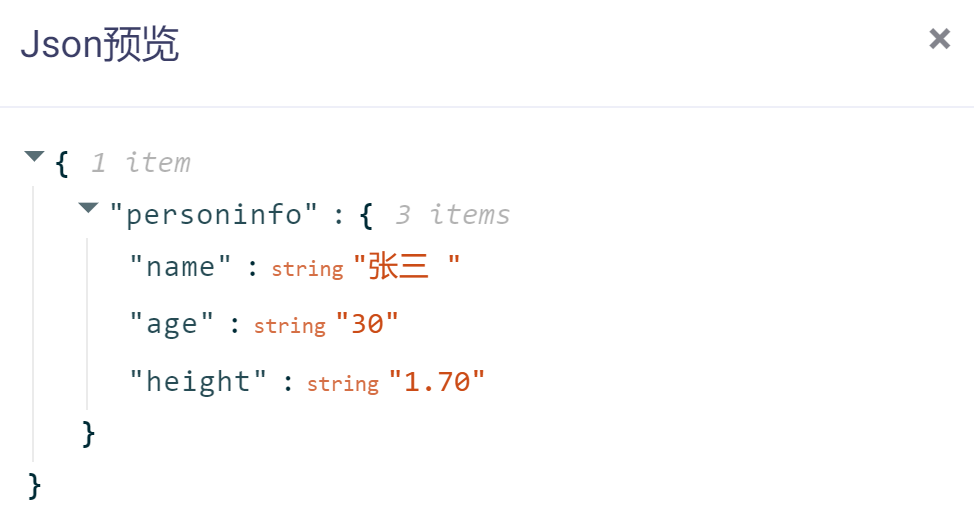
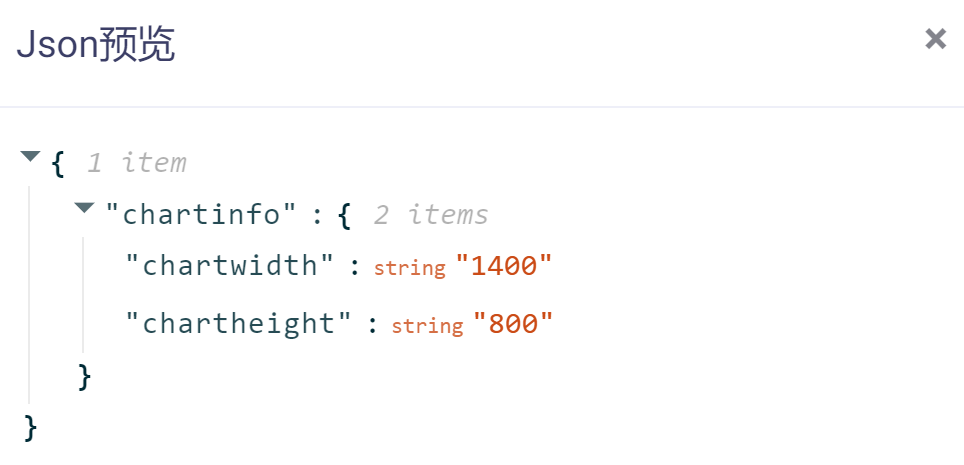
5-17-2023 update

diff --git a/docs/zh-cn/userguide/os/tools/code/devUI.md b/docs/zh-cn/userguide/os/tools/code/devUI.md
@@ -1,11 +1,11 @@
-# 用户界面接口
+# 建立用户界面接口
 
-用户界面接口是指用来实现用户输入与应用引导程序交互的机制。
-
-Code 提供以下两种用户界面接口类型：
+用户界面接口是 Code 用来实现用户输入与应用引导程序交互的机制。主要包括两种类型：
 
 * **模型视图接口**：用户使用一个或多个模型视图窗体与程序交互。
-* **文件接口**：用户通过文件上传与程序交互。
+* **文件端口**：用户通过文件上传与程序交互。
+
+在本例中，我们将同时使用以上两种接口类型。
 
 ## 模型视图接口
 
@@ -15,68 +15,136 @@ Code 支持开发者引入任意多个模型视图作为云应用前端来实现
 
 ![Matrix.OS](../../../../../media/os/tools/code/modelviewport.png "模型视图接口文件")
 
-下面，我们将使用一些简单例子来展示添加和调用模型视图接口的方法与过程。
+### 创建模型视图
 
-### 添加模型视图接口
+在本例中，云应用根据用户输入的 "制图尺寸" 来自动绘制环状树图。为此，我们需要创建模型视图来作为用户的输入界面。具体步骤如下：
 
-在例子中，我们将添加一个模型视图接口，用来连接云 OS 上的一个名为 "demo" 的简单模型视图 (见下图)，该视图接收用户输入的个人信息。
+1）右键点击 `UI` 文件夹，选择创建 `模型视图`，将其命名为 "chart"，如下图所示：
 
-<img src="./././././media/os/tools/code/demomv1.png" width="80%" height="80%">
+![Matrix.OS](../../../../../media/os/tools/code/newmv.gif "建立模型视图")
 
-点击 <img src="./././././media/logo/codeui.png" width="80" height="20"> 按钮，即打开`用户界面设置`对话框，如下图所示：
+2）打开 "chart"，创建一个视图页面草稿，取名为 "图表信息"，如下图所示：
+
+![Matrix.OS](../../../../../media/os/tools/code/newdraft.gif "建立视图页面草稿")
+
+3）在 "图表信息" 视图页面添加两个`整数输入控件`，分别对控件做以下设置：
+
+* 控件ID："chartwidth"，控件文本："输入图表宽度（像素）" ，默认值： `1280`。
+* 控件ID："chartheight"，控件文本："输入图表高度（像素）" ，默认值： `720`。
+
+如下图所示：
+
+![Matrix.OS](../../../../../media/os/tools/code/newcontrol.gif "添加输入控件")
+
+注意：以上设置的控件 ID 将会在后面使用代码调用模型视图接口时用到。
+
+4）保存视图草稿，然后将其`添加到发布`。然后进入`发布区`，在视图列表中，将 "图表信息" 视图 ID 设置为 "chartinfo" 并保存，如下图所示：
+
+![Matrix.OS](../../../../../media/os/tools/code/releasedraft.gif "发布模型视图，修改视图ID")
+
+### 连接模型视图
+
+完成模型视图的创建与编辑，我们返回 Code，现在要添加一个模型视图接口，用来连接 `UI`文件夹下刚刚编辑好的模型视图 "chart"，将它作为云应用的前端输入界面。 
+
+1）点击 <img src="./././././media/logo/codeui.png" width="80" height="20"> 按钮，即打开`用户界面设置`对话框，如下图所示：
 
 ![Matrix.OS](../../../../../media/os/tools/code/openUIport.gif "打开用户界面接口设置")
 
-选中 <img src="./././././media/logo/codemvport.png" width="80" height="20"> 复选框，需要设置：
+2）选中 <img src="./././././media/logo/codemvport.png" width="80" height="20"> 复选框，需要设置：
 
 * `视图名称`：所添加的模型视图接口文件名（也即模型视图对应的 json 格式数据节点树文件名）。
 * `简介`：向用户介绍如何使用该视图界面的辅助性信息文字。
 
-我们将视图名称设置为 "person"，将简介设置为 "请输入个人信息"，如下图所示：
+在这里，我们将视图接口名称设置为 "chart" (可以设置为任意名称)，将简介设置为 "请输入制图尺寸"，如下图所示：
 
-![Matrix.OS](../../../../../media/os/tools/code/modelviewUI1.gif "添加模型视图接口：视图名与简介")
+![Matrix.OS](../../../../../media/os/tools/code/modelviewUI1.gif "设置视图接口文件名与简介")
 
-点击 <img src="./././././media/logo/codeaddport.png" width="45" height="20"> 按钮，在云桌面 OS 上选择要连接的模型视图 "demo"，点击 <img src="./././././media/logo/createbutton.png" width="45" height="20"> 按钮，即可完成模型视图接口的添加（出现在对话框下方列表中），如下图所示：
+3）点击 <img src="./././././media/logo/codeaddport.png" width="45" height="20"> 按钮，在对话框中选择要连接的模型视图 "chart"，点击 <img src="./././././media/logo/createbutton.png" width="45" height="20"> 按钮，即可完成模型视图接口连接（出现在对话框下方列表中），如下图所示：
 
-![Matrix.OS](../../../../../media/os/tools/code/modelviewUI2.gif "添加模型视图接口：连接 OS 模型视图")
+![Matrix.OS](../../../../../media/os/tools/code/modelviewUI2.gif "连接创建好的模型视图")
 
-关闭对话框，可以发现在 Code 左侧导航栏出现一个新文件 "person.json"，这个文件就是模型视图 "demo" 映射到 Code 中的接口文件 (带有 <img src="./././././media/logo/codeuifile.png" width="15" height="15"> 标记)，如下图所示：
+4）关闭对话框，可以发现在 Code 左侧导航栏出现一个新文件 "chart.json"，这个文件就是模型视图 "chart" 映射到 Code 中的接口文件 (带有 <img src="./././././media/logo/codeuifile.png" width="15" height="15"> 标记)，如下图所示：
 
-![Matrix.OS](../../../../../media/os/tools/code/modelviewUI3.gif "添加模型视图接口：生成接口文件")
+![Matrix.OS](../../../../../media/os/tools/code/modelviewUI3.gif "生成接口文件")
 
-### 调用模型视图接口
+5）点击 <img src="./././././media/logo/codedebug.png" width="60" height="20"> 按钮，打开用户输入模块，可以测试模型视图接口文件内容，如下图所示：
 
-有了接口文件，我们可以非常方便地在代码中调用它来获取用户对模型视图的操作与输入。
+![Matrix.OS](../../../../../media/os/tools/code/modelviewUI4.gif "测试模型视图接口文件内容")
 
-点击 <img src="./././././media/logo/codedebug.png" width="60" height="20"> 按钮，打开用户输入模块，可以测试模型视图输入与接口文件的反馈，如下图示例：
-
-![Matrix.OS](../../../../../media/os/tools/code/modelviewUI4.gif "模型视图对接口文件的反馈")
-
-可以发现，用户使用模型视图输入个人信息后，信息会更新到接口文件 "person.json" 中，结构如下图所示：
+可以发现，用户使用模型视图输入信息后，会更新到接口文件 "chart.json" 中，结构如下图所示：
 
 <img src="./././././media/os/tools/code/demomvjson1.png" width="50%" height="50%">
 
-在引导程序 "demo.py" 中输入以下 python 代码，保存后调试运行。
+### 调用模型视图接口
+
+有了接口文件，我们可以非常方便地在代码中调用它来获取用户输入。
+
+在 "radial.py" 中输入以下 python 代码，保存后调试运行。
 
 ```python
 import json
 
-with open('person.json') as f:
-  data = json.load(f)
+with open('../chart.json') as f:  # 读取模型视图接口文件 chart.json（注意使用相对路径）
+  userinput = json.load(f)        
   
-print(data['personinfo']['name'])
-print(data['personinfo']['age'])
-print(data['personinfo']['height'])
+print(userinput['chartinfo']['chartwidth'])   # 解析获取用户输入的制图宽度并打印
+print(userinput['chartinfo']['chartheight'])  # 解析获取用户输入的制图高度并打印
 ```
-以上代码读取接口文件 "person.json"，将文件信息赋予 data 字符串。然后，分级解析 data，获取模型视图中每个控件所对应的节点数据并打印出来，包括：姓名、年龄和身高。如下图示例：
 
-![Matrix.OS](../../../../../media/os/tools/code/modelviewUI5.gif "调用接口文件获取信息")
+以上代码读取模型视图接口文件 "chart.json"，将读取信息赋予 userinput 字符串。然后解析 userinput，获取模型视图中每个控件所对应的节点数据（也就是制图的宽与高），并打印出来。如下图示例：
 
-通过以上简单例子，我们展示了模型视图接口的添加、设置和调用。使用该方法，开发者可以在代码中获取用户对多个模型视图的操作，实现更为复杂的功能。更多例子请参考：《[Matrix 玩法与案例应用：开发实践](zh-cn/demo/gallery.md)》
+![Matrix.OS](../../../../../media/os/tools/code/modelviewUI5.gif "代码调用接口文件信息")
 
-## 文件接口
+以上我们展示了建立、连接、调用模型视图接口的方法。照此方法，开发者可以根据实际需要在 Code 中操作多个模型视图，实现更为复杂的功能。更多例子请参考：《[Matrix 玩法与案例应用：开发实践](zh-cn/demo/gallery.md)》。
 
-开发者需要选择设置一个引导程序（主程序）文件来驱动所有的代码和资源。当然如果开发者只是以开源代码为目的的发布，则无需设置引导程序文件。
+## 文件端口
+
+在本例中，云应用还允许用户自行上传数据文件，并根据用户数据来绘制环状树图。为此，我们还需要在应用中添加文件端口来实现这一功能。具体步骤如下：
+
+### 创建文件端口
+
+1）在`用户界面设置`对话框中，选中 <img src="./././././media/logo/codefileport1.png" width="90" height="20"> 复选框，需要设置：
+
+* `文件端口名`：所添加的文件端口名（用于在代码中调用）。
+* `文件类型`：限定用户上传文件的类型（文件扩展名，如 csv）。
+* `简介`：向用户介绍上传文件的辅助性信息文字。
+
+在这里，我们将文件端口名设置为 "data" (可以设置为任意名称)，文件类型设置为 "json"，简介设置为 "请上传 json 格式制图数据文件"。点击 <img src="./././././media/logo/codeaddport.png" width="45" height="20"> 按钮，即可完成文件端口创建（出现在对话框下方列表中），如下图所示：
+
+![Matrix.OS](../../../../../media/os/tools/code/fileport1.gif "建立单文件端口")
+
+2）关闭对话框，可以发现在 Code 左侧导航栏出现一个新文件 "data.json"，这就是刚刚创建的文件端口 (带有 <img src="./././././media/logo/codeuifile.png" width="15" height="15"> 标记)，如下图所示：
+
+![Matrix.OS](../../../../../media/os/tools/code/fileport2.gif "查看文件端口")
+
+### 调用文件端口
+
+建立好文件端口，我们可以非常方便地在代码中调用它来获取用户上传的文件。
+
+将 "radial.py" 更新为以下代码并保存。
+
+```python
+import json
+
+with open('../chart.json') as f:  # 读取模型视图接口文件 chart.json（注意使用相对路径）
+  userinput = json.load(f)        
+  
+print(userinput['chartinfo']['chartwidth'])   # 解析获取用户输入的制图宽度并打印
+print(userinput['chartinfo']['chartheight'])  # 解析获取用户输入的制图高度并打印
+
+with open("../data.json", "r", encoding="utf-8") as f:  # 读取文件端口 data.json（注意使用相对路径）
+    userdata = json.load(f)
+  
+print(userdata)   # 获取文件端口中的用户上传数据文件并打印
+```
+
+以上代码在之前基础上，增加了读取文件端口 "data.json" 功能，将读取的用户数据文件赋予 userdata 字符串，并在用户终端打印出来。
+
+点击 <img src="./././././media/logo/codedebug.png" width="60" height="20"> 按钮，打开用户输入模块，可以发现新增添的文件输入项。我们使用云桌面上的 "flare.json" 数据，测试运行如下图所示：
+
+![Matrix.OS](../../../../../media/os/tools/code/fileport3.gif "测试文件端口")
+
+
 
 
 ## 删除用户界面接口

diff --git a/docs/zh-cn/userguide/os/tools/code/devapp.md b/docs/zh-cn/userguide/os/tools/code/devapp.md
@@ -1,20 +1,42 @@
-# 云应用开发简介
+# 云应用开发起步
 
 云应用（App）是指专门解决某类问题或者提供某种功能的程序、微服务、工具、算法模块等（见下图示例），具备一定的用户交互功能（比如接收用户输入信息或者上传文件等）并生成满足用户需求的运行结果。
 
+本教程以`你的第一个云应用：环状树图制作工具`为例，帮助 Matrix 开发者快速上手云应用开发全过程。该应用可以根据用户上传的数据文件和输入信息使用 pyecharts 一键定制生成环状树图，如下图所示：
+
 ![Matrix.OS](../../../../../media/os/tools/code/codeapp.gif "云应用示例：环状树图制作工具")
-
-使用 Code 开发云应用的关键在于通过用户界面接口来实现用户输入与后端代码的交互并进行程序输出设置。本节教程将详细介绍使用 Code 开发云应用的方法并给出简单示例。主要包括以下几个关键部分：
-
-* [建立应用文件夹](zh-cn/userguide/os/tools/code/devfolder.md)
-* [设置引导程序](zh-cn/userguide/os/tools/code/devsetmain.md)
-* [用户界面接口](zh-cn/userguide/os/tools/code/devUI.md)
-* [应用输出设置](zh-cn/userguide/os/tools/code/devoutput.md)
-* [运行调试](zh-cn/userguide/os/tools/code/devdebug.md)
-* [协同开发](zh-cn/userguide/os/tools/code/devshare.md)
-* [与 VSCode 结合](zh-cn/userguide/os/tools/code/devvscode.md)
 
 更多云应用开发案例请参考：《[Matrix 玩法与案例应用：开发实践](zh-cn/demo/gallery.md)》
 
+## 新建应用
 
+在云桌面上，点击左侧导航栏 <img src="./././././media/logo/startmenu.png" width="50" height="20"> 按钮下的 <img src="./././././media/logo/createfolder1.png" width="75" height="20"> (或右键单击云桌面空白处选择<img src="./././././media/logo/createfolder2.png" width="75" height="20">)，在弹出对话框中输入 "radialtree" （也就是应用的名称），点击 <img src="./././././media/logo/createbutton.png" width="40" height="20"> 按钮，即可在 OS 当前路径下创建一个空白组件文件夹，如下图所示：
 
+![Matrix.OS](../../../../../media/os/tools/code/newapp.gif "新建应用")
+
+## 打开应用
+
+右键点击 "radialtree" 组件，在弹出菜单中选择 <img src="./././././media/logo/openwithcode.png" width="90" height="20">，即可在 Code 中打开组件，如下图所示：
+
+![Matrix.OS](../../../../../media/os/tools/code/openapp.gif "打开应用")
+
+## 创建组件文件夹
+
+云应用一般由多个代码文件、多级模型视图以及资源文件通过 Code 组装编译而成。因此，可以创建不同文件夹来分别管理代码文件、前端模型视图、资源文件、以及输出结果等。在本例中，我们依次在 Code 中创建以下四个组件文件夹：
+
+* `code` 文件夹：用来存放和管理代码文件
+* `UI` 文件夹：用来存放和管理应用所需的前端模型视图
+* `media` 文件夹：用来存放和管理应用中涉及的各种媒体素材资源
+* `output` 文件夹：用来存放和管理应用输出结果
+
+创建过程如下图展示：
+
+![Matrix.OS](../../../../../media/os/tools/code/organizepp.gif "创建组件文件夹")
+
+## 导入或创建代码文件
+
+如果代码已经在本地端写好，可以直接导入上传到 Code 中。当然，也可以创建代码文件并编码。在本例中，我们在 `code` 文件夹内新建一个 python 代码文件 "radial.py"，如下图所示：
+
+![Matrix.OS](../../../../../media/os/tools/code/newcodefile.gif "创建代码文件")
+
+到目前为止，我们完成了一个简单云应用的基本结构搭建，下面将详细介绍云应用开发的后续关键步骤，包括：引导程序设置、用户界面接口、输出设置等。

diff --git a/docs/zh-cn/userguide/os/tools/code/devsetmain.md b/docs/zh-cn/userguide/os/tools/code/devsetmain.md
@@ -1,17 +1,18 @@
 # 设置云应用引导程序
 
-云应用一般由多个代码文件、多级模型视图以及资源文件通过 Code 组装编译而成。
+如前文所述，云应用由多个代码文件、多级模型视图以及资源文件通过 Code 组装编译而成。
 
-开发云应用的首要步骤就是设置**引导程序（main 程序）文件**来驱动代码和用户界面接口。具体分为以下两步：
+我们首先需要设置 **引导程序（main 程序）文件** 来驱动各种程序组件 (如：代码、用户界面接口、输出模块)。具体分为以下两步：
 
 ## 激活引导程序设置
 
-点击 Code 左侧导航栏上方的 <img src="./././././media/logo/codegear.png" width="15" height="15"> 图标，点击选中 <img src="./././././media/logo/codemainon.png" width="80" height="20"> 复选框，这将激活 Code 中的引导程序设置功能，如下图所示：
+点击 Code 左侧导航栏上方的 <img src="./././././media/logo/codegear.png" width="15" height="15"> 图标，点击选中 <img src="./././././media/logo/codemainon.png" width="80" height="20"> 复选框，这将激活应用的引导程序设置功能，如下图所示：
 
 ![Matrix.OS](../../../../../media/os/tools/code/activatemain.gif "激活引导程序设置")
 
 ## 指定引导程序文件
 
-点击选中待设置为引导程序的代码文件，拖动激活 <img src="./././././media/logo/codesetmain.png" width="70" height="20"> 滑块，即可将该文件设置为引导程序（文件名前显示 <img src="./././././media/logo/codemainlabel.png" width="20" height="20"> 标记），同时也激活了用户界面接口设置按钮 <img src="./././././media/logo/codeui.png" width="80" height="20">，如下图所示：
+点击选中 "radial.py" 代码文件，拖动激活 <img src="./././././media/logo/codesetmain.png" width="70" height="20"> 滑块，即可将该文件设置为引导程序（文件名前显示 <img src="./././././media/logo/codemainlabel.png" width="20" height="20"> 标记），同时也激活了用户界面接口设置按钮 <img src="./././././media/logo/codeui.png" width="80" height="20">，如下图所示：
 
 ![Matrix.OS](../../../../../media/os/tools/code/setmain.gif "设置引导程序文件")
+

diff --git a/docs/_sidebar.md b/docs/_sidebar.md
@@ -68,14 +68,12 @@
         - [概览](zh-cn/userguide/os/tools/code/intro.md)
         - [常用操作](zh-cn/userguide/os/tools/code/operations.md)
         - [配置开发环境](zh-cn/userguide/os/tools/code/envconfig.md)
-        - 开发云应用
-          - [简介](zh-cn/userguide/os/tools/code/devapp.md)
-          - 你的第一个云应用
-            - [建立应用文件夹](zh-cn/userguide/os/tools/code/newapp.md)
-            - [设置引导程序](zh-cn/userguide/os/tools/code/devsetmain.md)
-            - [用户界面接口](zh-cn/userguide/os/tools/code/devUI.md)
-            - [应用输出设置](zh-cn/userguide/os/tools/code/devoutput.md)
-            - [运行调试](zh-cn/userguide/os/tools/code/devdebug.md)
+        - 你的第一个云应用
+          - [起步](zh-cn/userguide/os/tools/code/devapp.md)
+          - [设置引导程序](zh-cn/userguide/os/tools/code/devsetmain.md)
+          - [建立用户界面接口](zh-cn/userguide/os/tools/code/devUI.md)
+          - [应用输出设置](zh-cn/userguide/os/tools/code/devoutput.md)
+          - [运行调试](zh-cn/userguide/os/tools/code/devdebug.md)
         - [协同开发](zh-cn/userguide/os/tools/code/devshare.md)
         - [与 VSCode 结合](zh-cn/userguide/os/tools/code/devvscode.md)
       - 交互地图
